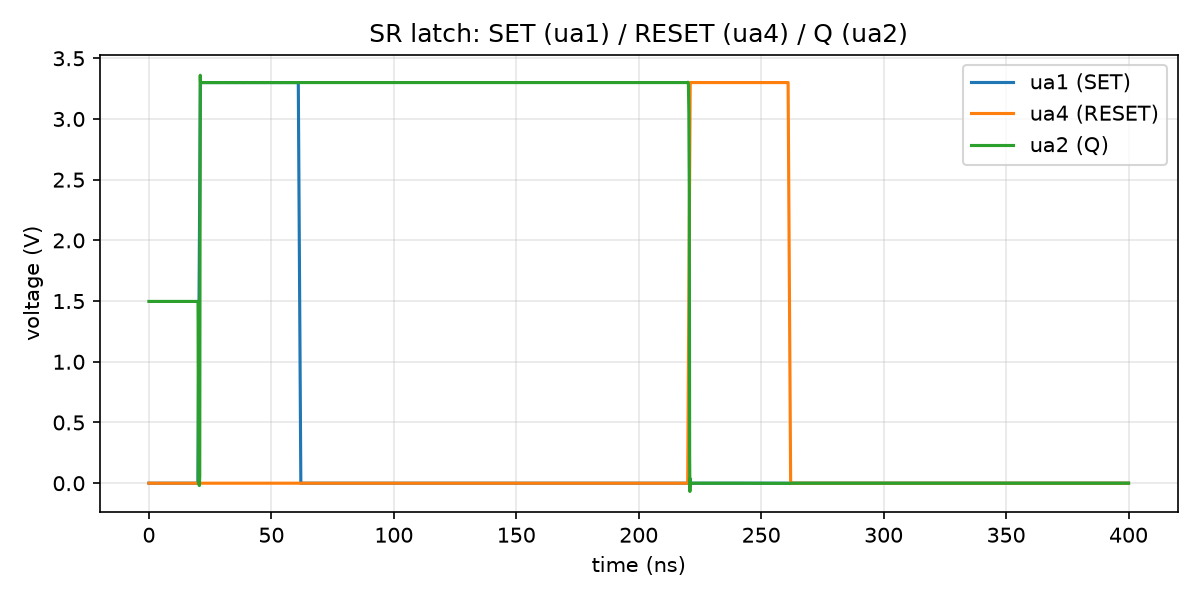
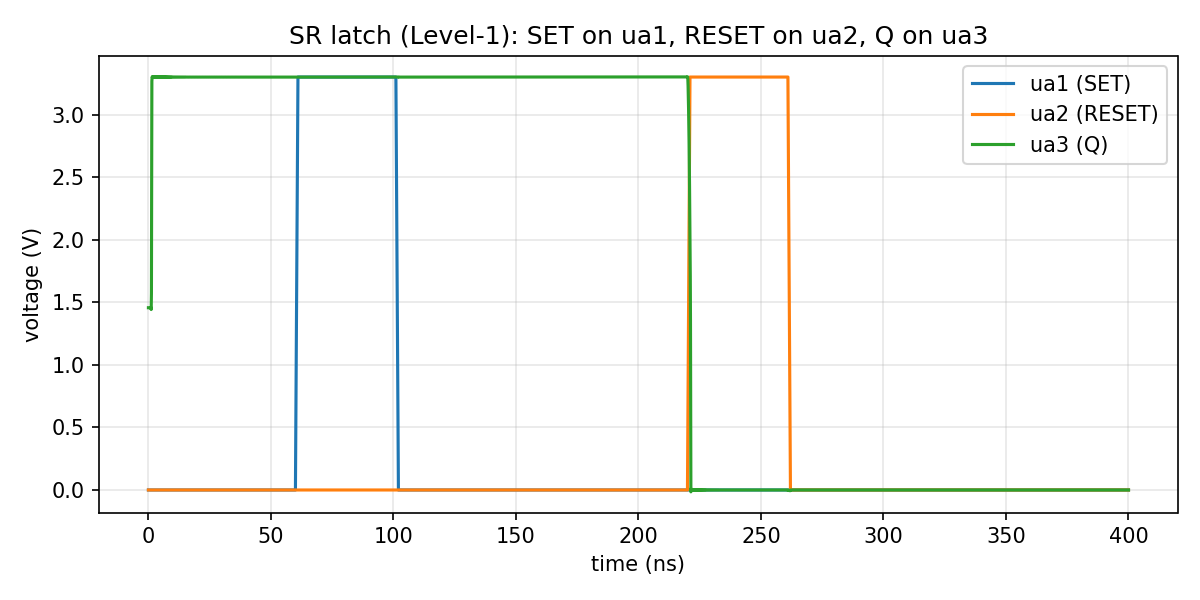
Re-simulate the SR latch on its own pins
The waveform in this example was left over from the generated schematic
and plotted ua1/ua4/ua2. The hand-drawn one uses ua1 = SET, ua2 = RESET,
ua3 = Q, so the plot labelled signals the schematic no longer carries.
Re-simulated against the committed file and replotted.

The behaviour is the same story the old text told, now with this
circuit's own numbers: Q powers up at 1.46V -- neither rail, the balanced
point a cross-coupled pair sits at with both pull-downs off -- and falls
off that balance to 3.3V within 1.4ns. SET at t=60.5ns therefore does
nothing visible, which is unlucky for a demo and honest about the
circuit. RESET crosses mid-rail at t=220.6ns, Q is below 0.1V by
t=221.4ns, RESET releases at t=261.6ns, and Q stays at 0V through to the
end of the run -- the property that makes it a latch rather than a gate.

The section now records how to redo it, which the old one did not. Worth
having because one step is easy to get wrong in a way that fails
silently: netlisting needs the sky130A xschemrc *and* xschem/mosbius_lib
on the library path, and with only the latter the inner nfet3_*/pfet3_*
devices netlist as "IS MISSING !!!!" and the deck runs with no
transistors in it at all.

Incidentally confirms the previous commit empirically. The symbols now
netlist as "XM1 ua3 net1 VAPWR VAPWR mosbius_pmos w=1" -- the @spiceprefix
change was applied and documented without an xschem to hand, and this is
the first netlist produced since. The example READMEs were updated on
[…]

diff --git a/examples/srlatch/README.md b/examples/srlatch/README.md
@@ -98,27 +98,83 @@ now follows transistor channels, so they are gone.
 
 ## Simulation
 
-![SR latch waveform: Q powers up high, SET pulse has no visible effect since Q is already high, RESET pulse drives Q low and it stays low](srlatch.png)
+![SR latch waveform: Q powers up at about 1.5V and resolves high within a
+couple of ns, the SET pulse at 60-100ns has no visible effect since Q is
+already high, the RESET pulse at 220-260ns drives Q to 0V and it stays there
+after RESET releases](srlatch.png)
 
-The plot predates this schematic and uses the earlier pin assignment --
-`ua1` (SET) and `ua4` (RESET) against `ua2` (Q), where the schematic above
-uses `ua1`, `ua2` and `ua3`. Same six transistors, same topology, same
-behaviour; only which package pin carries which signal differs, so the
-waveform still shows what it says it shows. It has not been re-simulated
-against the current file. What it demonstrates: at power-up, with neither SET nor RESET driven,
-the latch starts at an undefined operating point (`Q` sits around 1.5V --
-neither rail -- since with both pull-downs off the cross-coupled pair has
-no external push toward either state) and resolves to `Q=HIGH` within
-about 20ns, before the SET pulse even arrives at t~61ns. That's a real,
-if slightly unlucky, property of this exact circuit, not a simulation
-bug: an SR latch's power-up state is inherently arbitrary, decided by
-whichever tiny asymmetry the solver's numerics happen to amplify first --
-this run happened to resolve high, so SET's pulse (t~61ns) has no visible
-effect (`Q` was already where SET would have driven it). RESET's pulse
-(t~221-261ns) is the one that's unambiguous: `Q` drops to 0V exactly when
-RESET goes high, and -- this is the actual point of a *latch* rather than
-a combinational gate -- **stays at 0V after RESET releases**, held there
-by the cross-coupled feedback rather than by anything actively driving it.
+Re-simulated 2026-08-21 against the schematic above, so the pin labels are
+this circuit's: **`ua1` = SET, `ua2` = RESET, `ua3` = Q.** This is SPEC.md
+§3.1b's Level-1 "ideal" result -- real sky130 device sizing, direct
+net-to-net wiring, no switch matrix in between -- with no load on `ua3`
+beyond the circuit itself.
+
+Three things it shows, in order:
+
+**Power-up is arbitrary, and this run resolved high.** At t=0 `Q` sits at
+**1.46V** -- neither rail. With both pull-downs off, the cross-coupled pair
+has nothing pushing it toward either state, so it starts at the balanced
+operating point the DC solver finds. It falls off that balance almost
+immediately, reaching 3.3V within about **1.4ns**, decided by whichever tiny
+asymmetry the numerics happen to amplify first. That is a real property of an
+SR latch, not a simulation artefact: power-up state is inherently undefined,
+which is exactly why a latch needs a SET or RESET to be useful.
+
+**SET does nothing visible here, and that is expected.** The pulse arrives at
+**t=60.5ns** and `Q` is already high, so there is nothing for it to change.
+Unlucky for a demo, honest about the circuit.
+
+**RESET is the unambiguous one.** The pulse crosses mid-rail at
+**t=220.6ns** and `Q` is below 0.1V by **t=221.4ns**. RESET releases at
+**t=261.6ns** -- and this is the whole point of a *latch* rather than a
+combinational gate -- **`Q` stays at 0V**, still 0V at the end of the run at
+400ns, held by the cross-coupled feedback rather than by anything actively
+driving it.
+
+### Reproducing it
+
+Two steps, both in the IIC-OSIC-TOOLS container, because neither xschem nor
+ngspice is installed natively (CLAUDE.md). Netlist the schematic with the
+sky130A xschemrc *and* `xschem/mosbius_lib` on the library path -- with only
+the latter, the inner `nfet3_*`/`pfet3_*` devices come out as
+`IS MISSING !!!!` and the deck silently has no transistors in it:
+
+```tcl
+# /tmp/xschemrc
+source /foss/pdks/sky130A/libs.tech/xschem/xschemrc
+append XSCHEM_LIBRARY_PATH :/work/xschem/mosbius_lib
+```
+
+```bash
+xschem --rcfile /tmp/xschemrc -n -q -o /work/build \
+    /work/examples/srlatch/srlatch.sch
+```
+
+Then prepend stimulus and append the analysis to that netlist (strip its
+trailing `.end` first), and run it:
+
+```spice
+.lib /foss/pdks/sky130A/libs.tech/ngspice/sky130.lib.spice tt
+Vapwr  VAPWR 0 3.3
+Vgnd   VGND  0 0
+Vset   ua1 0 PULSE(0 3.3 60n 1n 1n 40n 1000n)
+Vreset ua2 0 PULSE(0 3.3 220n 1n 1n 40n 1000n)
+* ... netlist body ...
+.tran 100p 400n
+.control
+run
+wrdata srlatch_tb.txt v(ua1) v(ua2) v(ua3)
+.endc
+```
+
+```bash
+python3 tools/plot_tb.py build/srlatch_tb.txt examples/srlatch/srlatch.png \
+  "SR latch (Level-1): SET on ua1, RESET on ua2, Q on ua3" \
+  "ua1 (SET):0" "ua2 (RESET):1" "ua3 (Q):2"
+```
+
+The run itself took 54s, nearly all of it the sky130A model load, which is
+fixed cost regardless of circuit size.
 
 Unlike the inverter, there's no single published trise number to compare
 against for this circuit -- the blog post describes the same topology and
